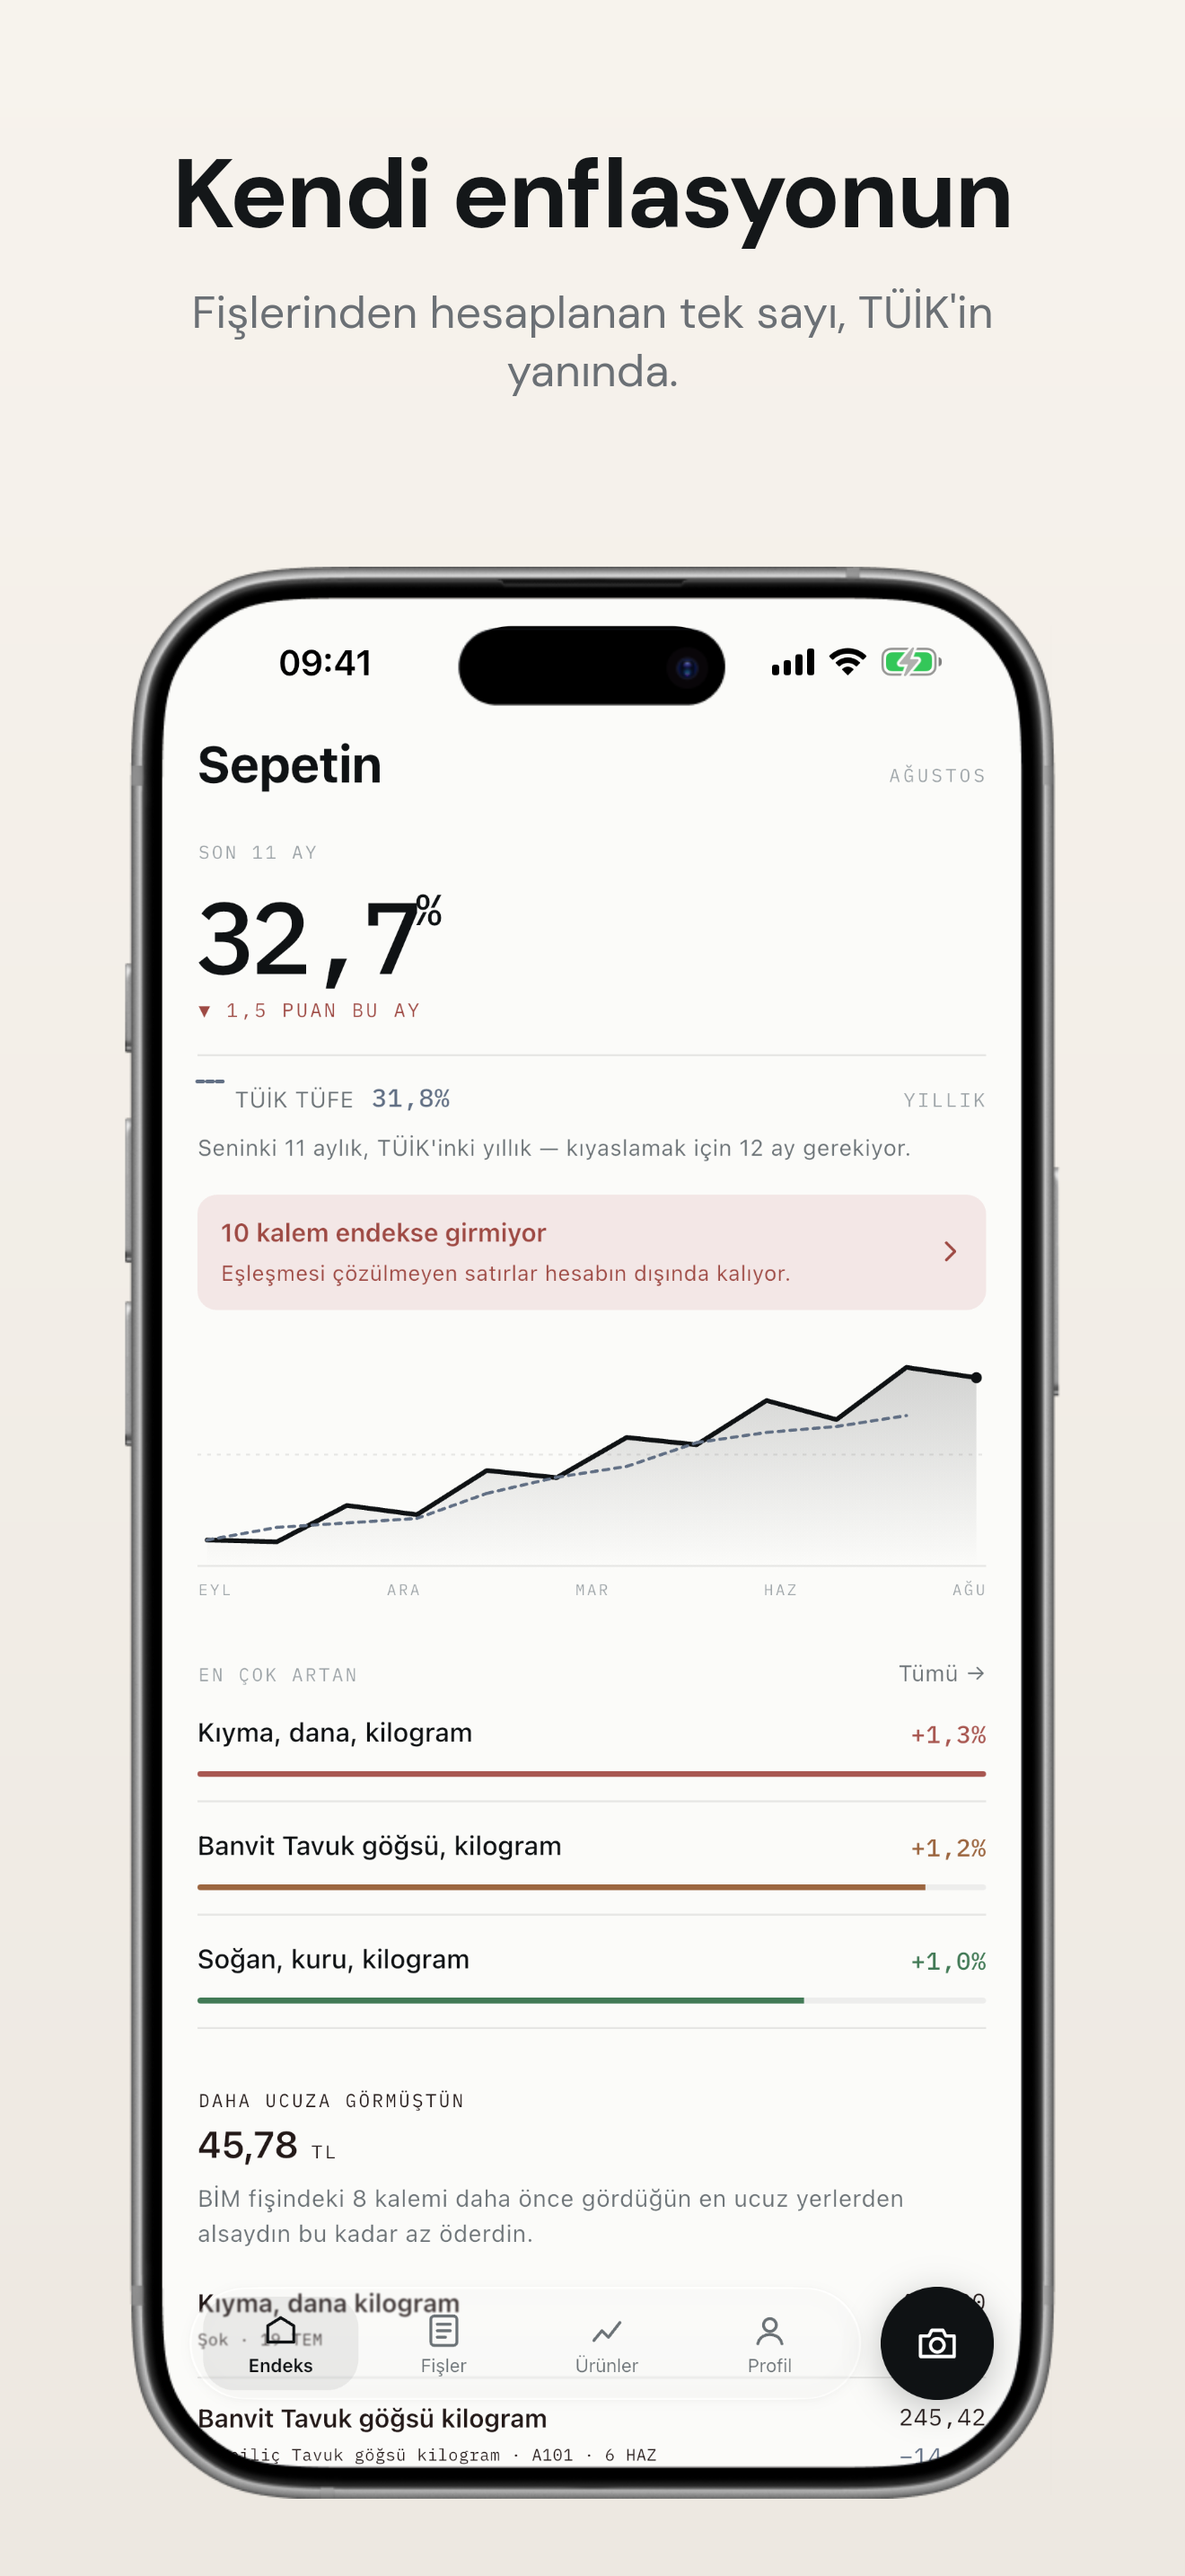
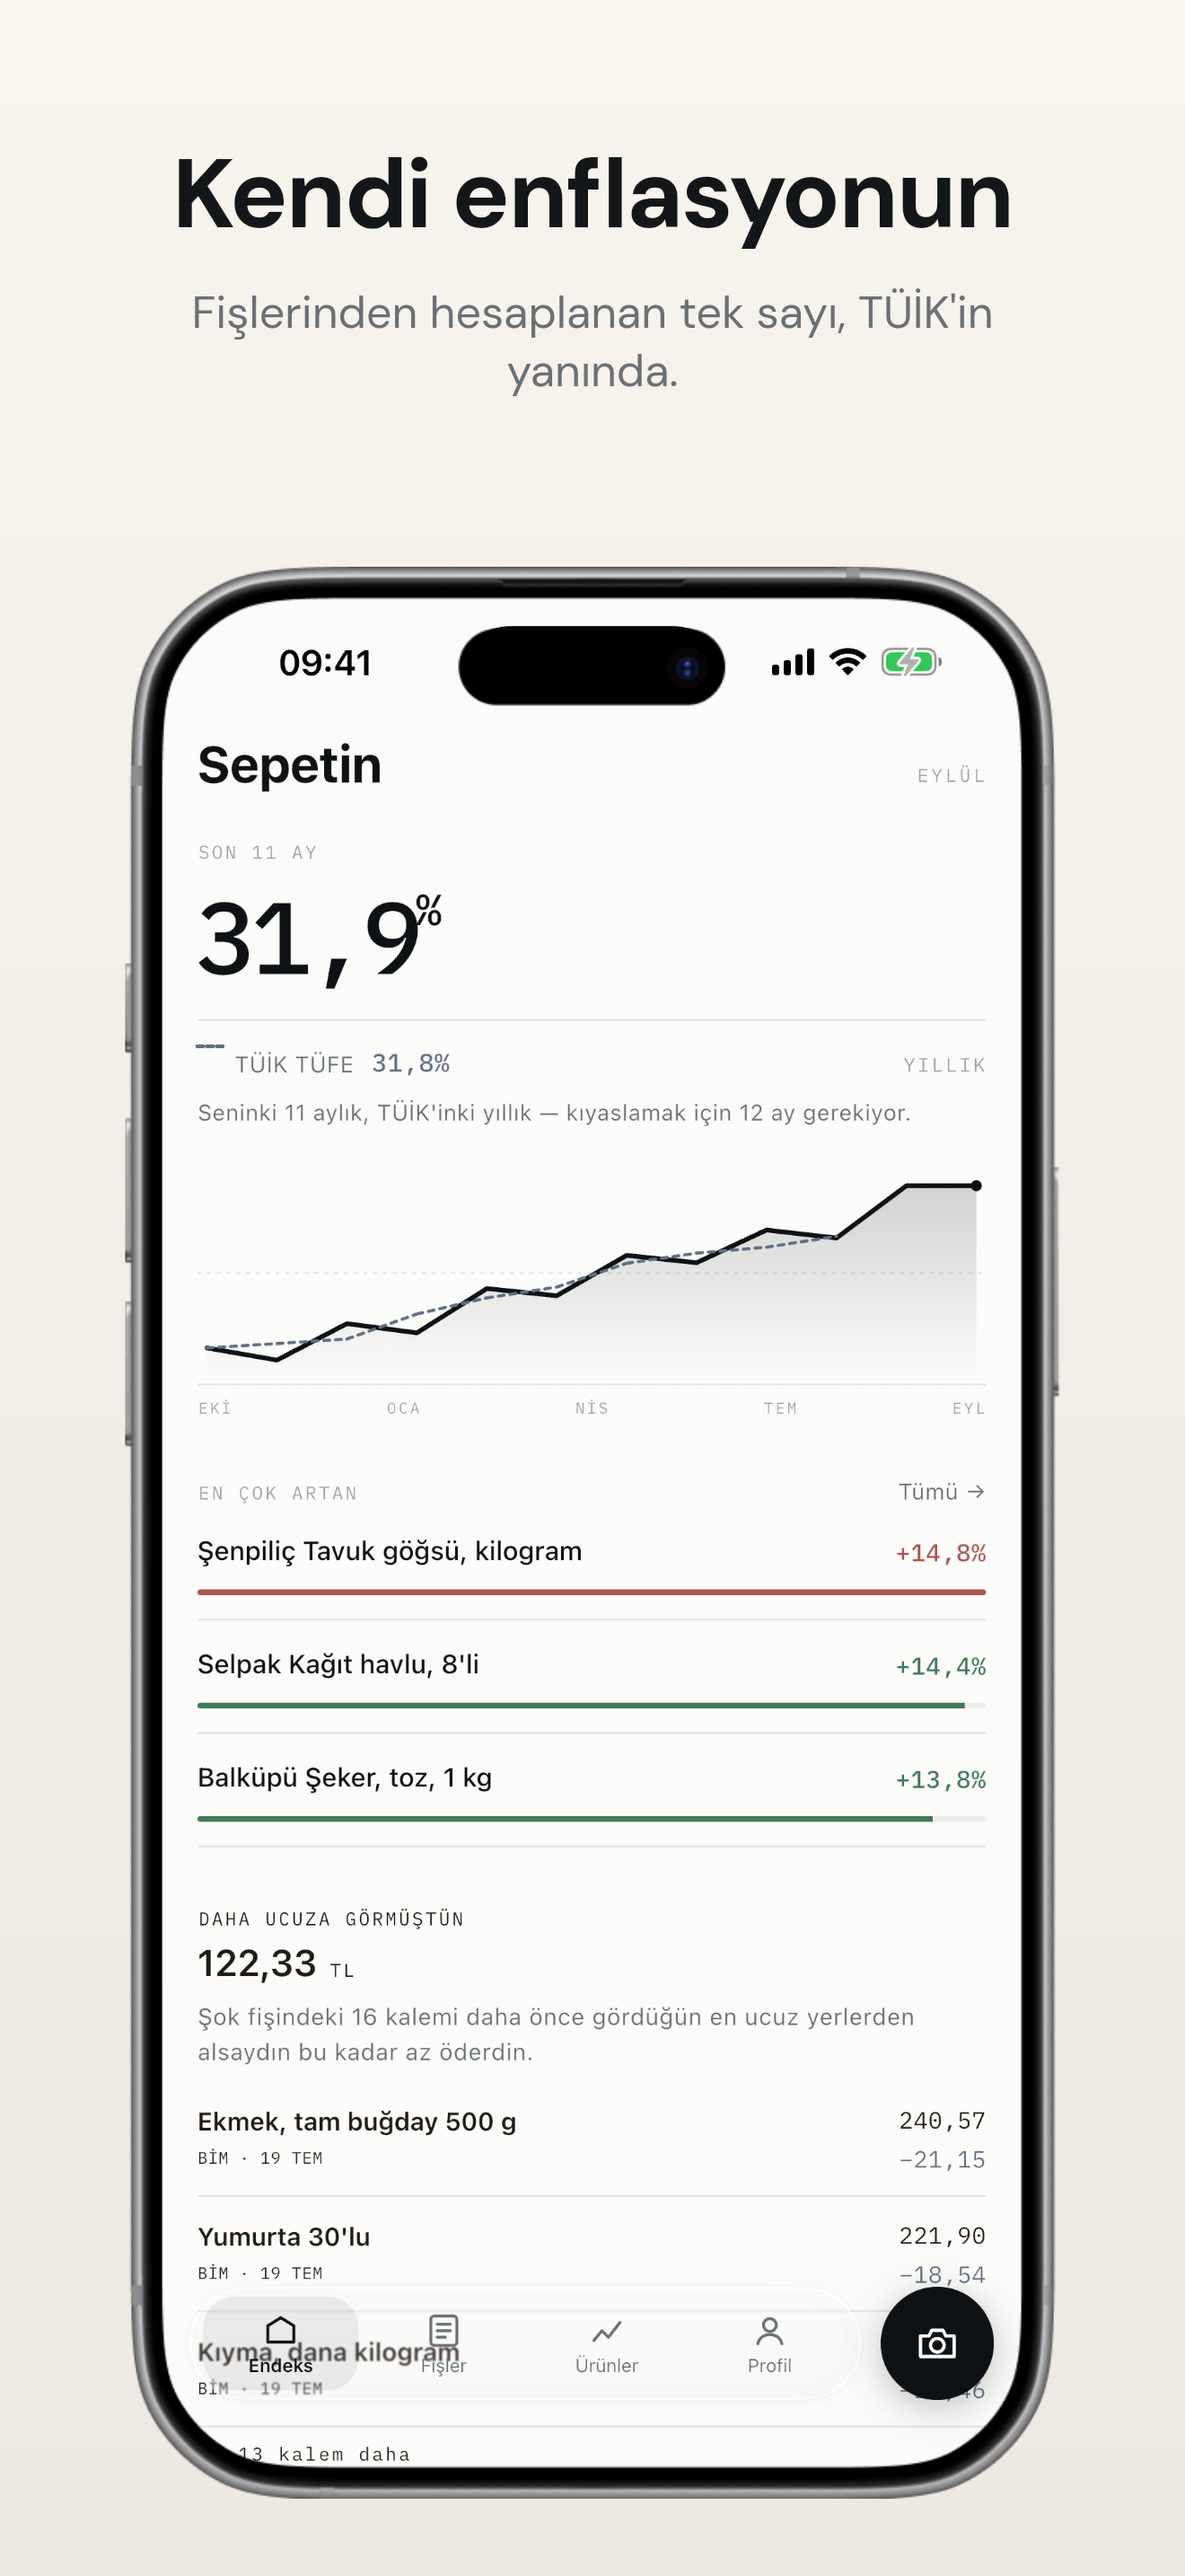
fix(mağaza): vitrin hesabı — endeks ekranındaki kırmızı şerit kalktı (#67)
Mağaza vitrinindeki ilk karede, başlığın hemen altında kırmızı bir şerit
duruyordu: "10 kalem endekse girmiyor". Uyarı doğru — demo hesabında
gerçekten eşleşmemiş satır var — ama vitrinde ilk okunan üçüncü satır
oydu ve "bir şeyler eksik" izlenimi bırakıyordu.

Uyarı ürün kodunda doğru davranıyor; düzeltme veride.

VİTRİN HESABI. `npm run seed -- vitrin@sepet.app --vitrin` aynı sepeti
bekleyen satır bırakmadan kuruyor. İnceleme hesabı (demo@sepet.app)
olduğu gibi kaldı: eşleşme akışını göstermek için bilerek taşıdığı
bekleyen satırlar da, 24 Ağustos'ta elle taranmış gerçek Migros fişi de
yerinde — o fiş tek gerçek OCR verimiz, yeniden kurmak silerdi.

TOHUMDA GİZLİ HATA. Bekleyen satırlar `monthsAgo === 0` koşuluyla
işaretleniyordu. Fişler ayın 6'sına ve 19'una düşüyor ve gelecekteki gün
için fiş üretilmiyor; yani ayın ilk günlerinde o koşul hiç tutmuyor ve
demo hesabı eşleşme akışını hiç göstermiyordu. Artık takvime değil,
gerçekten yazılmış en son fişe bakılıyor.

KEYCHAIN TUZAĞI. İlk çekim yine eski hesabı gösterdi: jeton
flutter_secure_storage ile Keychain'de duruyor ve Keychain uygulama
silinince temizlenmiyor. goldie her akıştan önce uygulamayı verisi
silinmiş kuruyor ama eski jeton simülatörde kalıyor, uygulama da
otomatik giriş yerine o jetonla açılıyor. Çekimden önce
`xcrun simctl keychain <udid> reset` gerekiyor; config'e yazıldı.

KAYAN KOORDİNATLAR. Şerit kalkınca endeks ekranındaki her şey yukarı
[…]

diff --git a/server/scripts/seed.ts b/server/scripts/seed.ts
@@ -1,10 +1,15 @@
 /**
  * Demo hesabı: 12 aylık fiş geçmişi.
  *
- * İki işe yarıyor. Biri geliştirme — Flutter'ı gerçek veriye bağlarken
+ * Üç işe yarıyor. Biri geliştirme — Flutter'ı gerçek veriye bağlarken
  * gösterecek bir şey olsun. Diğeri App Store incelemesi: boş kabuk gönderilen
  * uygulamalar "minimum functionality" gerekçesiyle geri dönüyor, inceleme
- * notuna dolu bir demo hesabın bilgileri yazılmalı.
+ * notuna dolu bir demo hesabın bilgileri yazılmalı. Üçüncüsü mağaza ekranları:
+ *
+ *   npm run seed                            demo@sepet.app   (inceleme)
+ *   npm run seed -- vitrin@sepet.app --vitrin                (mağaza ekranı)
+ *
+ * İkisi aynı sepeti üretiyor; tek fark bekleyen eşleşme satırları.
  *
  * FİYATLAR GERÇEK DEĞİL. Market sitelerinden fiyat çekilmiyor: Migros arama
  * sayfası fiyatı JavaScript'le basıyor, A101 otomatik erişime 403 veriyor.
@@ -17,7 +22,15 @@
 import { one, pool, query } from '../src/db.js';
 
 // Varsayılan demo hesabı; farklı bir adres için:  npm run seed -- ad@ornek.com
-const DEMO_EMAIL = process.argv[2] ?? 'demo@sepet.app';
+//
+// --vitrin: eşleşmemiş satır bırakmayan hesap. App Store ekranlarını üreten
+// goldie bu hesaba bakıyor; endeks ekranının tepesindeki "N kalem endekse
+// girmiyor" şeridi vitrinde ilk okunan üçüncü satır oluyordu. Uyarı doğru,
+// ama inceleme hesabıyla vitrin hesabının işi farklı: biri eşleşme akışını
+// göstermek, diğeri ekranı temiz göstermek zorunda.
+const ARGS = process.argv.slice(2);
+const VITRIN = ARGS.includes('--vitrin');
+const DEMO_EMAIL = ARGS.find((a) => !a.startsWith('--')) ?? 'demo@sepet.app';
 
 type Item = {
   group: string;
@@ -201,25 +214,48 @@ async function main(): Promise<void> {
       receiptCount++;
 
       for (const [i, l] of lines.entries()) {
-        // En son fişte iki satır bilerek "pending" bırakılıyor: uygulamadaki
-        // "eşleşme?" akışının demo hesapta da görünmesi için.
-        const pending = monthsAgo === 0 && (i === 1 || i === 6);
         await query(
           `INSERT INTO receipt_lines
              (receipt_id, line_no, raw_text, quantity, line_amount,
               canonical_product_id, status, match_confidence)
-           VALUES ($1, $2, $3, $4, $5, $6, $7::match_status, $8)`,
-          [
-            receipt.id, i + 1, l.raw, l.qty, l.amount,
-            pending ? null : l.productId,
-            pending ? 'pending' : 'auto',
-            pending ? 0.62 : 1,
-          ],
+           VALUES ($1, $2, $3, $4, $5, $6, 'auto'::match_status, 1)`,
+          [receipt.id, i + 1, l.raw, l.qty, l.amount, l.productId],
         );
         lineCount++;
       }
     }
   }
+
+  // Eşleşme kuyruğu boş kalmasın: en son fişin iki satırı "pending" bırakılıyor.
+  //
+  // Bu, satırlar eklenirken `monthsAgo === 0` koşuluyla yapılıyordu. O koşul
+  // ayın ilk günlerinde hiç tutmuyor: fişler ayın 6'sına ve 19'una düşüyor,
+  // gelecekteki gün için fiş üretilmiyor, dolayısıyla `monthsAgo === 0` hiç
+  // fiş doğurmuyordu. Ayın 1'inde kurulan demo hesabı eşleşme akışını hiç
+  // göstermiyor, 20'sinde kurulan gösteriyordu. Artık takvime değil, gerçekten
+  // yazılmış en son fişe bakılıyor.
+  //
+  // Satır tetikleyicisi (receipt_lines_sync_observation) status değişince
+  // fiyat gözlemini kendisi siliyor; endeks aşağıdaki refresh ile yeniden
+  // hesaplanıyor.
+  const pendingLines = VITRIN
+    ? 0
+    : (
+        await query(
+          `UPDATE receipt_lines l
+              SET status = 'pending'::match_status,
+                  canonical_product_id = NULL,
+                  match_confidence = 0.62
+             FROM receipts r
+            WHERE l.receipt_id = r.id
+              AND r.user_id = $1
+              AND r.id = (SELECT id FROM receipts WHERE user_id = $1
+                           ORDER BY purchased_at DESC, id DESC LIMIT 1)
+              AND l.line_no IN (2, 7)
+          RETURNING l.id`,
+          [user.id],
+        )
+      ).length;
 
   // Bir yıldır kullanılan hesapta bu eşleşmeler çoktan onaylanmış olurdu.
   // Alias'lar market bazlı: aynı ham metin farklı zincirde farklı ürün olabilir.
@@ -247,6 +283,7 @@ async function main(): Promise<void> {
   console.log(`  fiş            ${receiptCount}`);
   console.log(`  satır          ${lineCount}`);
   console.log(`  eşleşme kaydı  ${aliasCount}`);
+  console.log(`  bekleyen satır ${pendingLines}${VITRIN ? '  (--vitrin)' : ''}`);
   console.log(`  endeks         %${head?.change_pct} (${head?.window_months} aylık pencere)`);
   console.log('  not            fiyatlar tahmindir, market sitelerinden çekilmiyor');
 

diff --git a/goldie/goldie.config.ts b/goldie/goldie.config.ts
@@ -10,13 +10,20 @@ import type { GoldieConfig } from "goldie/dist/config.d.ts";
  *
  *  1. Yerel sunucu ayakta olmalı (`cd server && npm start`). Uygulama
  *     varsayılan olarak http://localhost:4000 adresine bakıyor ve ekranların
- *     tamamı gerçek veriyle doluyor — demo hesabında 25 fiş, 12 ay var.
+ *     tamamı gerçek veriyle doluyor — vitrin hesabında 22 fiş, 11 ay var:
+ *       cd server && npm run seed -- vitrin@sepet.app --vitrin
  *  2. Derleme SEPET_DEMO_EMAIL bayrağıyla yapılmalı:
  *     fvm flutter build ios --simulator --debug \
- *       --dart-define=SEPET_DEMO_EMAIL=demo@sepet.app
+ *       --dart-define=SEPET_DEMO_EMAIL=vitrin@sepet.app
  *     goldie her akıştan önce uygulamayı verisi silinmiş kuruyor; bu bayrak
  *     olmadan her akış giriş ekranında kalıyor. Bayrak yalnızca hata ayıklama
  *     derlemesinde çalışıyor, yayın derlemesinde ölü.
+ *
+ * NEDEN demo@sepet.app DEĞİL: inceleme hesabı eşleşme akışını göstermek için
+ * bilerek bekleyen satır taşıyor, üstüne bir de elle taranmış gerçek bir
+ * Migros fişi var. İkisi endeks ekranının tepesine kırmızı "10 kalem endekse
+ * girmiyor" şeridi bastırıyordu — uyarı doğru ama vitrinde ilk okunan üçüncü
+ * satır oluyordu. Vitrin hesabı aynı sepeti bekleyen satır olmadan kuruyor.
  *
  * goldie yayın (Release) derlemesi istiyor; gerekçesi React Native'in LogBox
  * şeritleri. Flutter'da o şerit yok ve uygulama zaten debugShowCheckedModeBanner

diff --git a/README.md b/README.md
@@ -19,8 +19,8 @@
   <img src="docs/screenshots/store/01-endeks.png" width="172" alt="Endeks ekranı">
   <img src="docs/screenshots/store/02-fis.png" width="172" alt="Fiş ekranı">
   <img src="docs/screenshots/store/03-kirilim.png" width="172" alt="Kategori ve marka kırılımı">
-  <img src="docs/screenshots/store/04-urun-gecmisi.png" width="172" alt="Ürün geçmişi ekranı">
-  <img src="docs/screenshots/store/05-aylik-kart.png" width="172" alt="Aylık kart ekranı">
+  <img src="docs/screenshots/store/04-urun.png" width="172" alt="Ürün geçmişi ekranı">
+  <img src="docs/screenshots/store/05-kart.png" width="172" alt="Aylık kart ekranı">
 </p>
 
 <p align="center">
